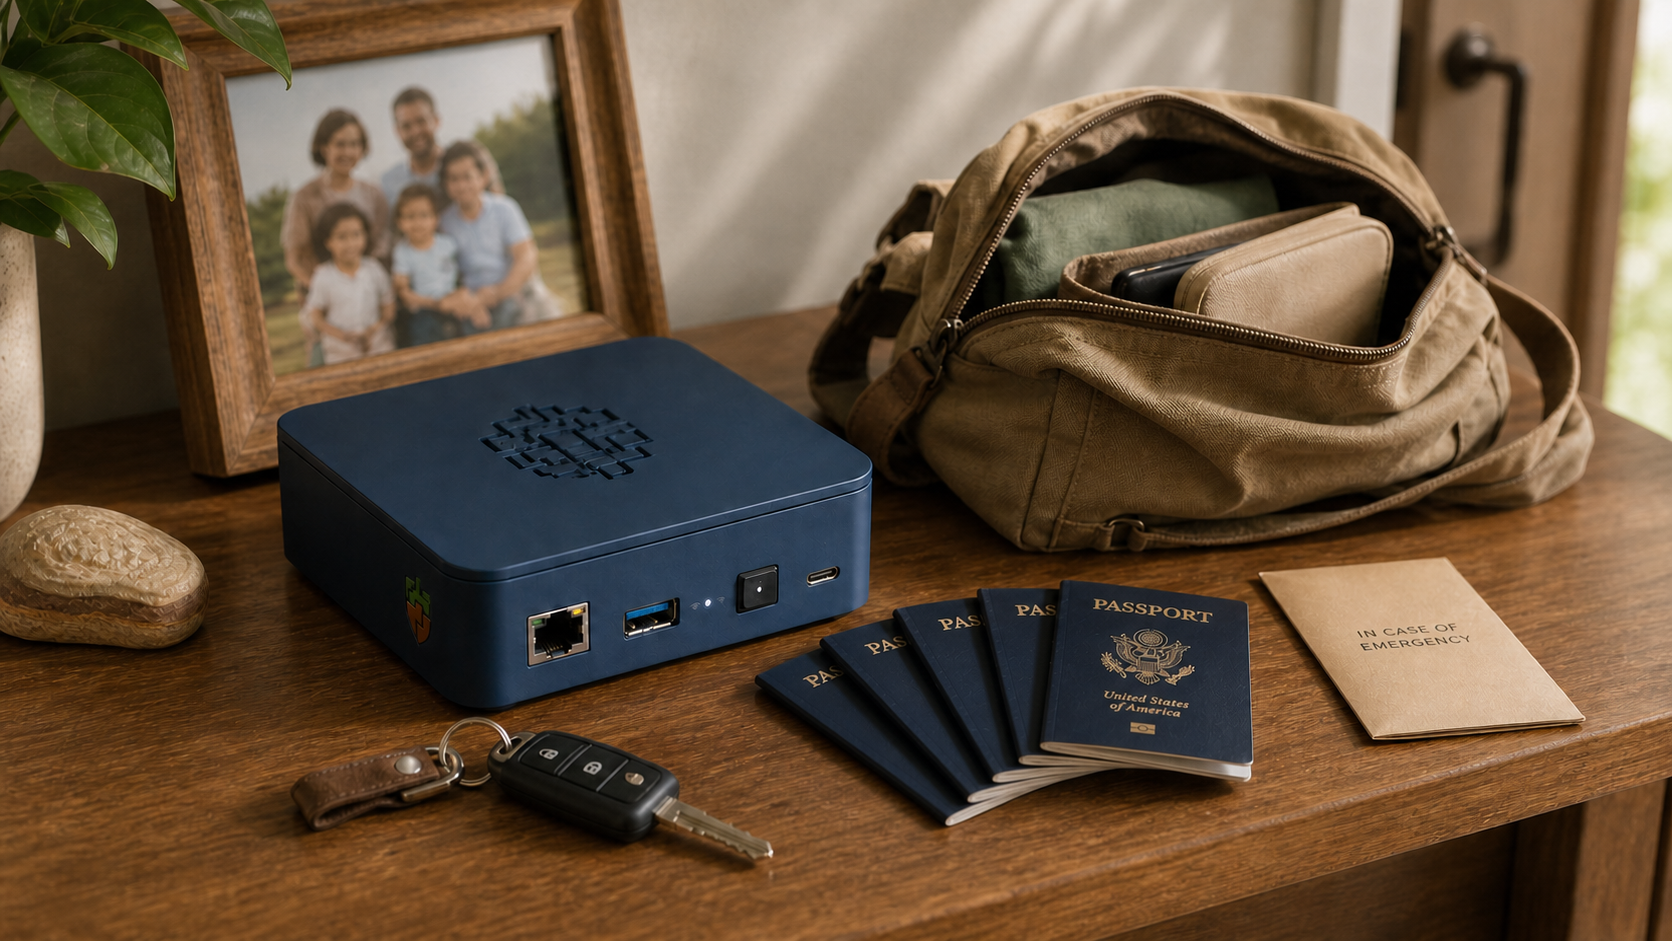
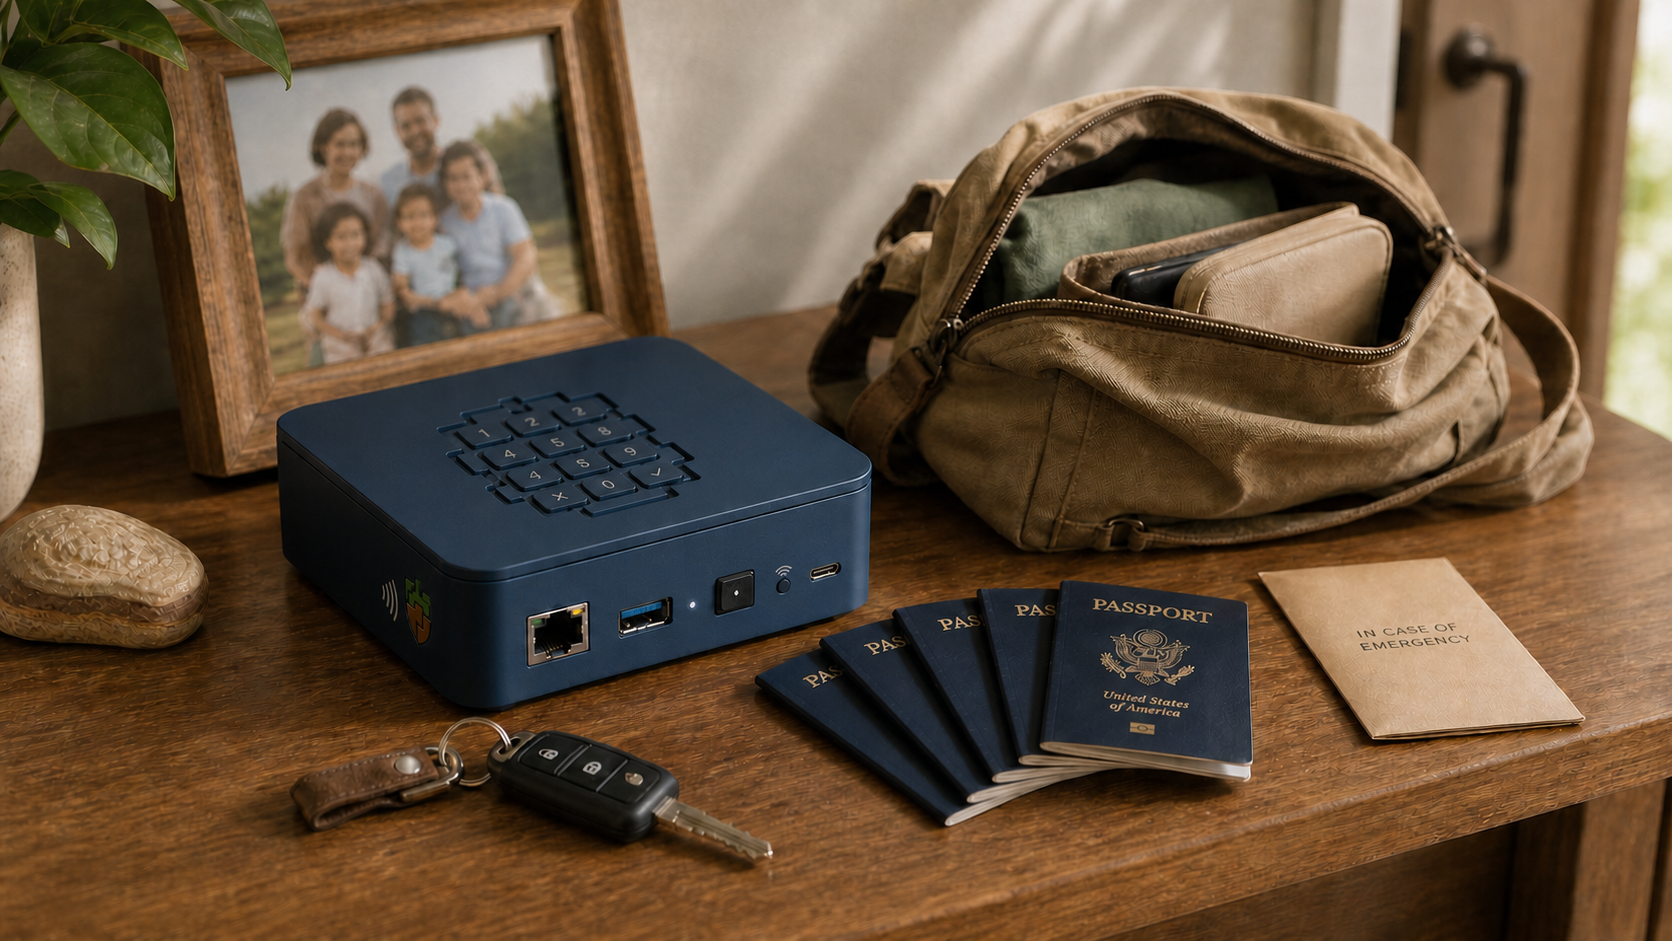
docs: position Safebox as a resilient digital go-bag appliance
- add appliance concept and setup interaction schematic
- document NFC key, PIN keypad, and temporary Wi-Fi pairing
- define connected, local, bridge, and mesh continuity modes
- compare adjacent products and clarify Safebox’s distinct synthesis
- establish Safebox as the product powered by the Acorn component

diff --git a/website/digital-go-bag.md b/website/digital-go-bag.md
@@ -5,10 +5,11 @@ description: Product positioning for Safebox as a digital go-bag for emergency f
 
 # Safebox and the digital go-bag
 
-![Concept illustration of a compact Safebox appliance ready to be packed beside an open go-bag, car keys, five passports, an emergency folder, and a family photograph](assets/images/safebox-appliance-concept.png)
+![Concept illustration of a compact Safebox appliance with an integrated keypad, NFC tap point, and physical Wi-Fi control, ready to be packed beside an open go-bag, car keys, five passports, an emergency folder, and a family photograph](assets/images/safebox-appliance-concept.png)
 
 *An illustrative product concept: Safebox alongside the final essentials a
-family might gather before leaving home, powered by the Acorn component. Final
+family might gather before leaving home. The concept includes a physical
+keypad, Safebox Key tap point, and deliberately activated local Wi-Fi. Final
 hardware and enclosure design may differ.*
 
 ## Emergency funds and critical records, kept ready
@@ -91,6 +92,165 @@ receiving normal plaintext access to the records they hold.
 This is closer to a network of **reciprocal safes** than a shared folder.
 Participants help preserve one another's encrypted resources while each
 Safebox, through its Acorn component, retains its own keys and authority.
+
+## A physical ceremony for local access
+
+A Safebox appliance could combine a small numeric keypad, an NFC reader, and a
+physical control for local Wi-Fi. Together they provide an access ceremony that
+is understandable without turning the appliance into a general-purpose
+computer.
+
+The NFC credential—provisionally called a **Safebox Key**—should be a secure
+smart card or secure-element token rather than an ordinary writable NFC tag.
+The user taps the key and enters a PIN on the appliance keypad:
+
+```text
+physical Wi-Fi press -> short-lived local pairing network
+Safebox Key tap      -> possession of the registered secure credential
+PIN entry            -> knowledge verified with retry limits
+approved session     -> access to the attached or recovered Safebox
+```
+
+For an existing Safebox, successful presentation can authorize a local session
+against the Acorn already present. For a fresh Safebox, the key can provide or
+unlock the bootstrap coordinates and recovery package needed to find the
+encrypted relay state, reconstruct the Acorn authority, and retrieve its funds
+and records.
+
+> **The Safebox Key proves what the user has. The PIN proves what the user
+> knows. The appliance restores what the user controls.**
+
+### Deliberately activated local Wi-Fi
+
+The appliance may advertise its own Wi-Fi SSID only after someone physically
+presses a recessed Wi-Fi control. This creates a short, intentional pairing
+window for a nearby phone, tablet, or computer. The SSID is a convenience and
+presence signal; it is **not authentication** and should never expose the
+wallet, records, relay administration, or the surrounding network by itself.
+
+Before the Safebox Key and PIN are accepted, the temporary network should
+provide only a narrowly isolated pairing surface. A safe sequence is:
+
+1. The user physically enables the Wi-Fi pairing window.
+2. Safebox advertises a device-specific SSID for a limited period.
+3. A nearby client may connect only to a restricted local pairing service.
+4. The user taps the registered Safebox Key and enters the PIN on the appliance.
+5. The trusted input controller approves and binds that specific local session.
+6. Safebox attaches to the existing Acorn or performs the authorized recovery.
+7. The pairing window closes automatically after success, cancellation, or
+   timeout.
+
+![Setup-booklet schematic showing the Safebox keypad, NFC tap point, temporary Wi-Fi button, and five-step local access sequence](assets/images/safebox-setup-interactions.svg)
+
+*The local interface is deliberately small: physical intent opens the pairing
+window, while the Safebox Key and PIN authorize access.*
+
+The temporary network should be firewalled from relay administration, the host
+operating system, other tenants, and unrelated local networks. Pairing requests
+should be rate-limited and bound to a one-time challenge so that a nearby
+observer cannot reuse an earlier approval.
+
+### Security boundary
+
+The keypad, NFC reader, and secure element should form a trusted input path.
+Ideally the ordinary Safebox operating system never receives the plaintext PIN.
+Failed-attempt counters and delays should be enforced by the Safebox Key or its
+secure controller so that moving a stolen key to another appliance does not
+reset the counter.
+
+The first practical implementation may unlock an encrypted recovery package
+and briefly reconstruct Acorn secrets in protected process memory. A stronger
+future implementation could keep private keys inside secure hardware and ask
+it to perform signing and key-agreement operations without exporting them.
+Neither approach makes the NFC key the only recovery mechanism: the Safebox
+Acorn mnemonic and Protected record mnemonic remain the durable offline
+recovery path if the appliance or Safebox Key is lost, damaged, or locked.
+
+## Four modes of continuity
+
+Safebox should not be reduced to a binary choice between online and offline.
+It can change how it operates as infrastructure becomes unavailable, moving
+from ordinary network access to increasingly local forms of continuity.
+
+| Mode | Available connectivity | Primary purpose |
+| --- | --- | --- |
+| **Connected mode** | Normal Ethernet or Wi-Fi with upstream access | Relay synchronization, mint access, replication, updates, and ordinary use |
+| **Local pairing mode** | A temporary Safebox SSID without upstream access | Operate the local Safebox from a nearby phone or computer when external networks are unavailable |
+| **Mobile bridge mode** | A phone or other mobile device supplies upstream connectivity | Reach relays and mints through cellular service without making the mobile device the custodian of Safebox keys |
+| **Community mesh mode** | Nearby Safeboxes and participating devices communicate directly | Exchange signed events, carry messages, and preserve encrypted replicas until broader connectivity returns |
+
+> **Safebox is connected when possible, local when necessary, bridged when
+> available, and resilient together.**
+
+### Connected mode
+
+Connected mode is the ordinary operating state. Safebox uses Ethernet or an
+approved Wi-Fi network to reach home and replica relays, communicate with
+mints, receive software updates, and provide normal application services. The
+local appliance remains a home for Acorn state even when most interactions are
+backed by external infrastructure.
+
+### Local pairing mode
+
+When no upstream network is available, the physical Wi-Fi control can open the
+restricted local pairing network described above. A nearby phone, tablet, or
+computer becomes the interface to the appliance, but it does not provide
+internet access. Local records and already available state can remain usable
+after the Safebox Key and PIN authorize the session.
+
+### Mobile bridge mode
+
+In bridge mode, a phone or another mobile device contributes an upstream path,
+for example through cellular connectivity. The mobile device should be treated
+as transport rather than as the holder of Safebox authority: relay and mint
+connections remain independently authenticated, and the bridge should not
+receive plaintext keys or records merely because it carries the traffic.
+
+Bridge mode may be metered, intermittent, or power constrained. Safebox should
+therefore let the user prioritize essential synchronization, payment checks,
+or recovery operations instead of assuming that every replica and attachment
+must be transferred immediately.
+
+### Community mesh mode
+
+Mesh mode makes reciprocal resilience operational during a wider outage.
+Nearby Safeboxes or participating devices can discover approved peers and
+exchange signed events, encrypted messages, and opaque replicas without
+requiring a central internet connection. A participant that later regains
+upstream access can help carry authorized protocol traffic outward and bring
+new state back to the local community.
+
+The product-level mode should not prescribe one networking implementation.
+Direct Wi-Fi, a local peer network, store-and-forward exchange, or future radio
+and routing technologies may provide the underlying path. What matters is the
+Acorn-layer behavior: signed data remains attributable to its keys, private
+content remains encrypted, peers do not acquire one another's authority, and
+delayed state can be reconciled when normal infrastructure returns.
+
+### Graceful degradation has limits
+
+The four modes do not make every operation equally available during an outage:
+
+- private records and previously synchronized signed events can remain locally
+  available;
+- encrypted records and messages can be exchanged or carried for later relay
+  publication;
+- replicas can be preserved across participating devices without exposing
+  their plaintext contents;
+- ecash can potentially be transferred while offline, but the recipient cannot
+  conclusively verify or refresh it until the issuing mint becomes reachable;
+- Lightning payments require a working route to Lightning infrastructure; and
+- conflicting, delayed, expired, or deleted state may require reconciliation
+  after connectivity returns.
+
+Safebox should show its current mode plainly and avoid presenting provisional
+or delayed operations as final. Mode changes should preserve a default-deny
+posture: discovering a device, joining an SSID, providing a bridge, or
+participating in a mesh does not by itself grant access to keys, funds, records,
+or administrative functions.
+
+> **Safebox does not stop working when the network disappears. It changes how
+> it works.**
 
 ## If the appliance is lost
 
@@ -372,6 +532,60 @@ services without becoming the only place the Acorn can exist.
 This approach also avoids assuming that resilience must come from one enormous
 central platform. Continuity can emerge from several modest, independently
 operated systems that preserve encrypted state for one another.
+
+## Related products and a distinct synthesis
+
+Safebox does not emerge from a vacuum. Several existing product categories
+demonstrate parts of the model, and each provides useful engineering and
+product lessons.
+
+| Existing product or category | Relevant precedent | Difference from the Safebox model |
+| --- | --- | --- |
+| [Arca](https://arcasafes.com/) | A physical digital safe for keys, files, recovery material, isolated tenants, and geographically distributed Swarm mirroring | Closest to the appliance and reciprocal-safe concepts, but not organized around Acorn's protocol-portable funds, relay events, four continuity modes, and community mesh operation |
+| [Passport Prime](https://foundation.xyz/2024/12/introducing-passport-prime/) | Secure keys, PIN-protected hardware, encrypted files, NFC recovery cards, USB-C, and a phone companion | A personal security device rather than a household relay appliance or community replication network |
+| [Start9](https://start9.com/) and [Umbrel Home](https://umbrel.com/umbrel-home) | Small personal servers providing private services, storage, and Bitcoin infrastructure | General-purpose home servers rather than bounded emergency safes for recoverable funds and critical records |
+| [Smarana](https://mysmarana.com/) and [DataBunker](https://databunker1.com/) | Family readiness, emergency documents, local or offline storage, and disaster recovery | Records-focused products without integrated ecash, relay-backed signed events, or reciprocal protocol replication |
+| [Meshtastic](https://meshtastic.org/) and [Berty](https://berty.tech/features/) | Infrastructure-independent communication, nearby device pairing, and off-grid message exchange | Communication systems rather than safekeeping appliances for keys, funds, records, and recovery state |
+
+These precedents show that the individual building blocks are understandable
+and useful. Safebox's distinction is the way they are composed:
+
+```text
+physical household appliance
++ Safebox Key and PIN ceremony
++ emergency funds and critical records
++ protocol-portable Acorn authority
++ local relay
++ encrypted reciprocal replication
++ connected, pairing, bridge, and mesh modes
++ recovery onto a fresh appliance
+```
+
+The result is not merely a personal server, hardware wallet, encrypted drive,
+emergency-document application, or mesh communicator. It is a continuity
+system in which:
+
+- funds and records are controlled protocol objects rather than an undifferentiated
+  collection of files;
+- the appliance can be replaced while Acorn authority and encrypted state
+  remain portable;
+- communities and providers can preserve opaque replicas without becoming a
+  shared folder or acquiring the controller's keys;
+- connectivity degrades through explicit modes instead of simply failing; and
+- the same Acorn component can operate through an appliance, trusted provider,
+  web application, or another compatible execution environment.
+
+The defensible product claim is therefore one of **distinct synthesis**, not
+the invention of every underlying mechanism:
+
+> **Safebox combines established ideas from personal servers, secure hardware,
+> emergency preparedness, digital cash, and resilient networking into a
+> distinct digital go-bag architecture.**
+
+This comparison is illustrative rather than exhaustive and is not a patent,
+trademark, or formal novelty search. Adjacent products will continue to evolve;
+Safebox should learn from them while remaining precise about its own boundaries
+and claims.
 
 ## What Safebox is—and is not
 
